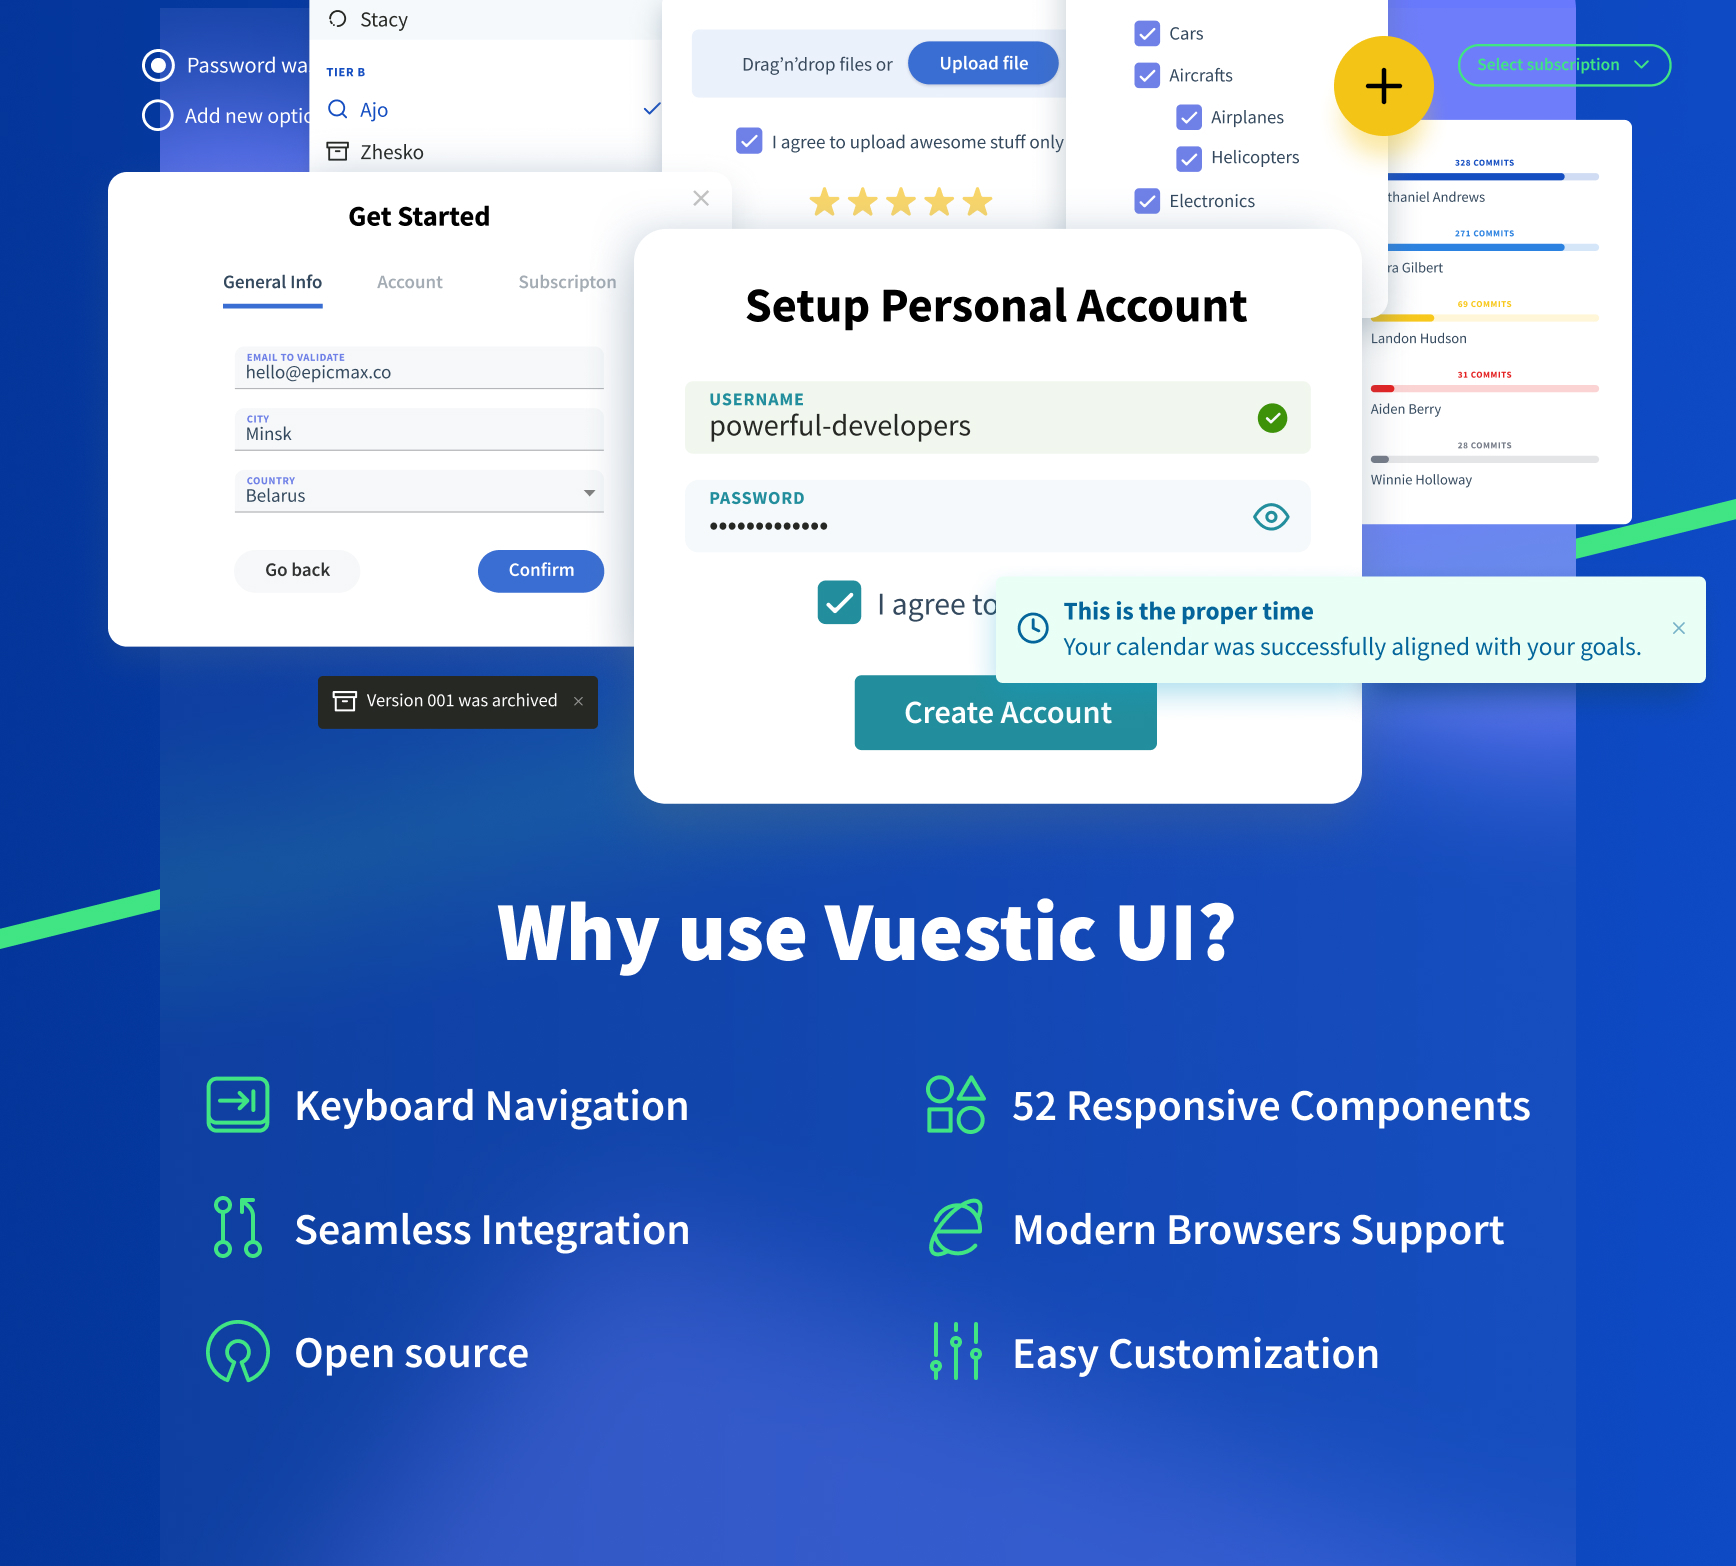
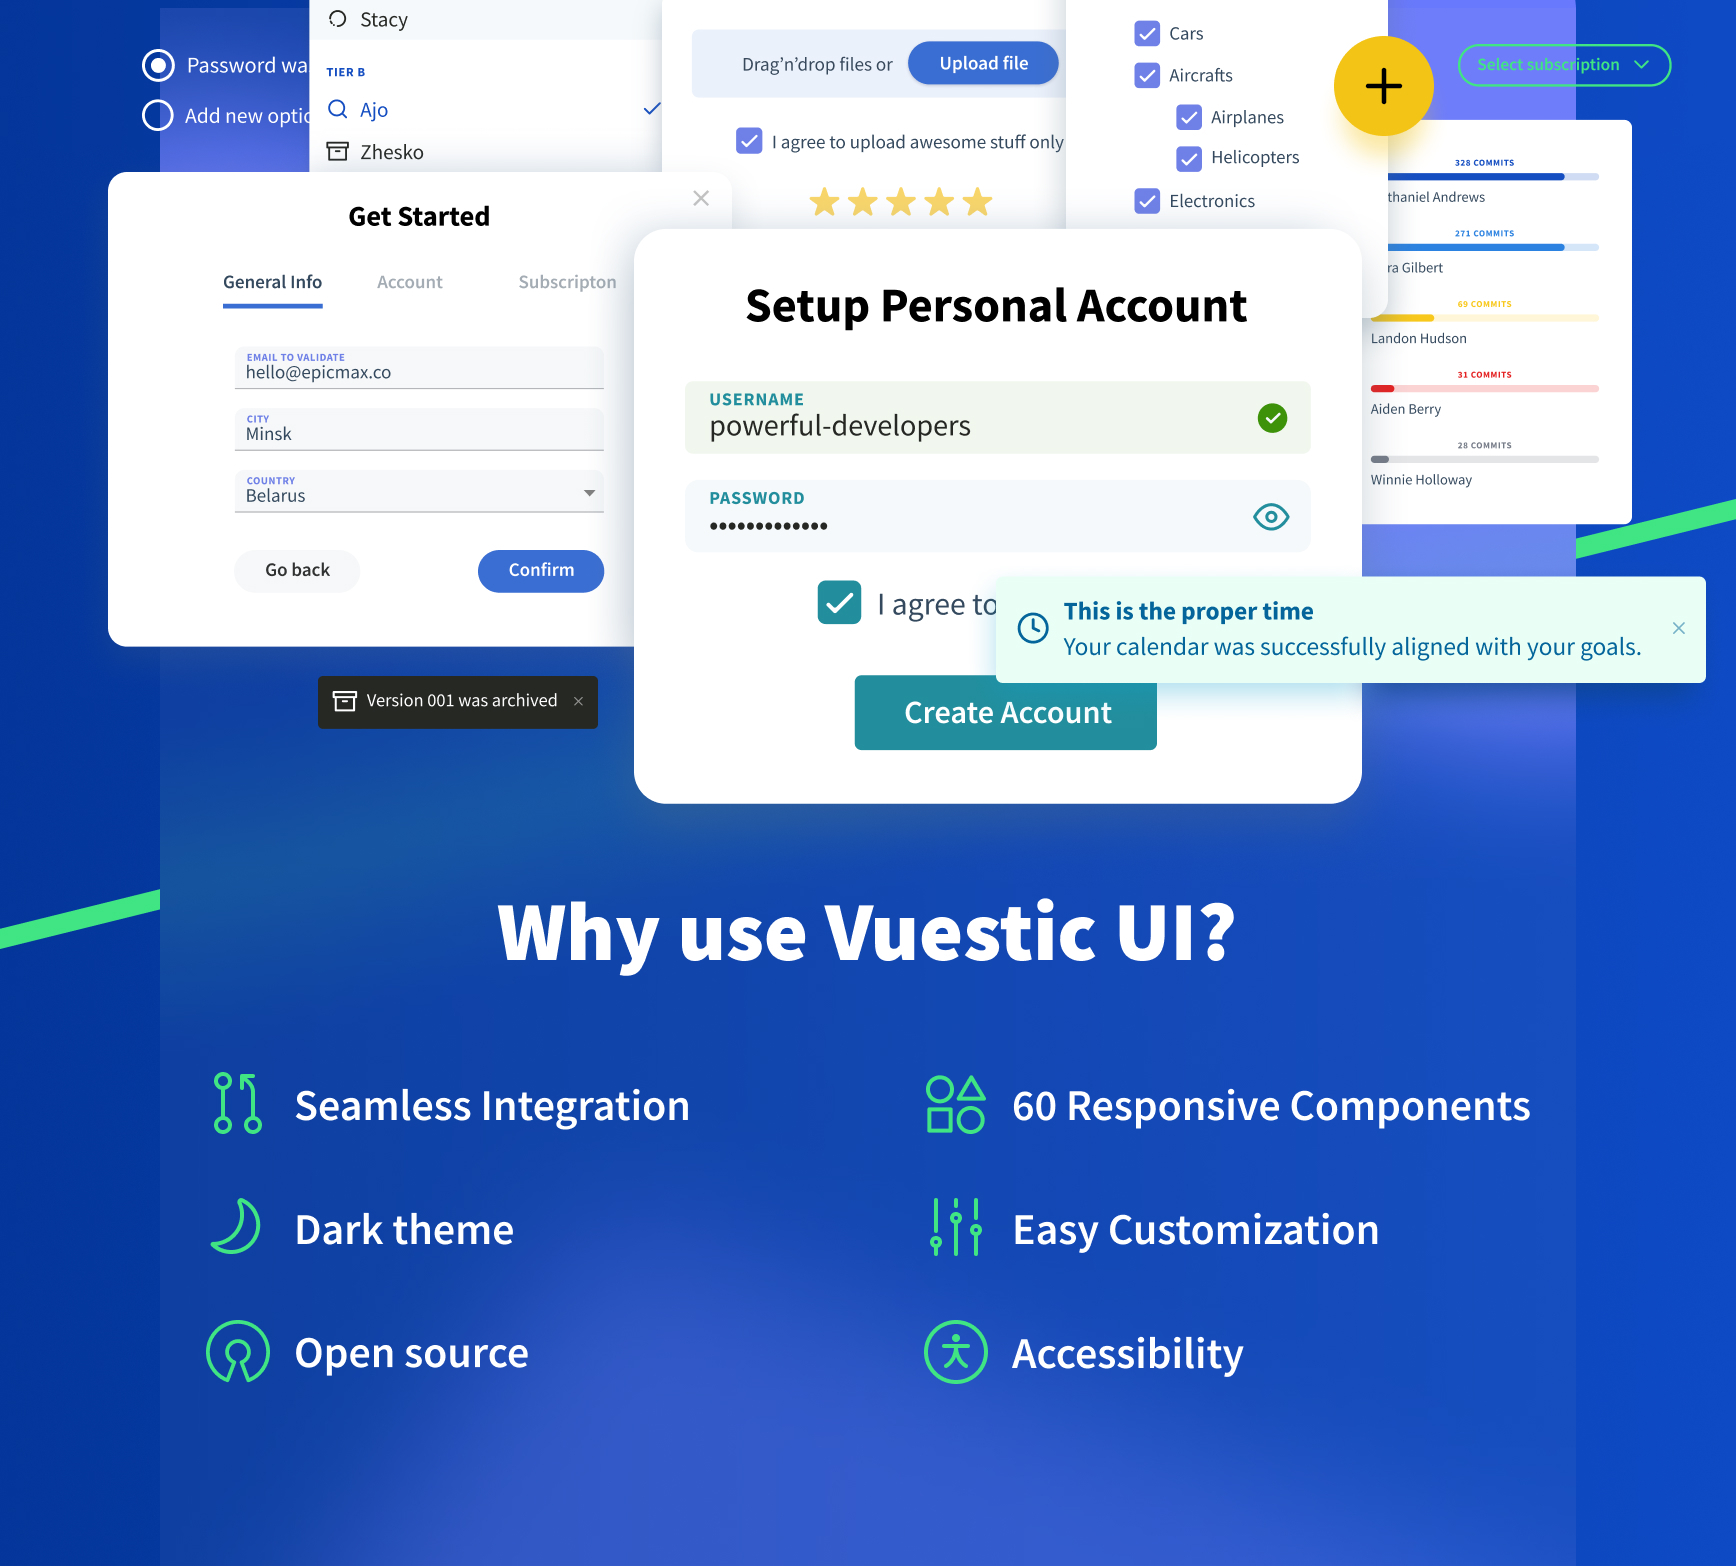
Zvenigorodskaia fix readme (#2630)
* Team page content updating

diff --git a/README.md b/README.md
@@ -49,14 +49,16 @@
 ### Why use Vuestic UI?
 
 - Vue.js 3.0 compatible
-- MIT license
-- Feature-rich: more than 52 customizable components
+- Accessibility
+- Dark Theme support
+- Feature-rich: more than 60 customizable components
 - Two built-in color scheme presets
 - Powerful configurations:
     - Local - configure components in-depth
     - Global - configure framework overall
 - Cross-browser and responsive
 - i18n-ready
+- MIT license
 
 ### Installation
 
@@ -140,9 +142,15 @@ We design Vuestic UI to support the latest modern web browsers.
 | Edge | last 2 versions  | last 2 versions | last 2 versions | last 2 versions |
 
 ### Can I hire you guys?
+[Epicmax](https://epicmax.co) is committed to Open Source from its beginning.
+[Vuestic UI](https://vuestic.dev) was created and backed by Epicmax, and is supported through all the years. 
+You can request a consultation or order web development services by Epicmax via this [form](https://epicmax.co/contacts) 😎
 
-Yes! Say hi: <a href="mailto:hello@epicmax.co">hello@epicmax.co</a>
-We will be happy to work with you! [Other work](https://epicmax.co) we’ve done
+Say hi: <a href="mailto:hello@epicmax.co">hello@epicmax.co</a>. We will be happy to work with you! 
+
+[Other work](https://epicmax.co) we’ve done 🤘
+
+[Meet the Team](https://vuestic.dev/team)
 
 ### Follow us
 
